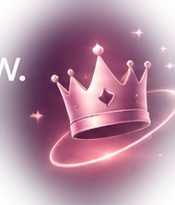
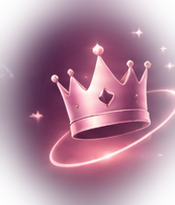
Add files via upload

Changed region(s): [[0.0, 0.2634, 0.1429, 0.4098]]

diff --git a/plans.html b/plans.html
@@ -851,6 +851,19 @@
   .vayen-plans .vp-lifetime { transform: none !important; }
 }
 </style>
+
+<style id="vayen-art-clean-final">
+/* Keep compact card sizes; make the centre only subtly taller and more prominent. */
+@media (min-width:901px) {
+  .vayen-plans .vp-lifetime { transform:translateY(-7px) !important; min-height:608px !important; }
+  .vayen-plans .vp-lifetime:hover { transform:translateY(-10px) !important; }
+}
+.vayen-plans .vp-art {
+  -webkit-mask-image:none !important; mask-image:none !important;
+  object-fit:contain; filter:drop-shadow(0 8px 12px rgba(0,0,0,.10));
+}
+@media (max-width:900px) { .vayen-plans .vp-lifetime {transform:none !important;min-height:unset !important;} }
+</style>
 </head>
 <body>
 <header class="plans-page-header">
